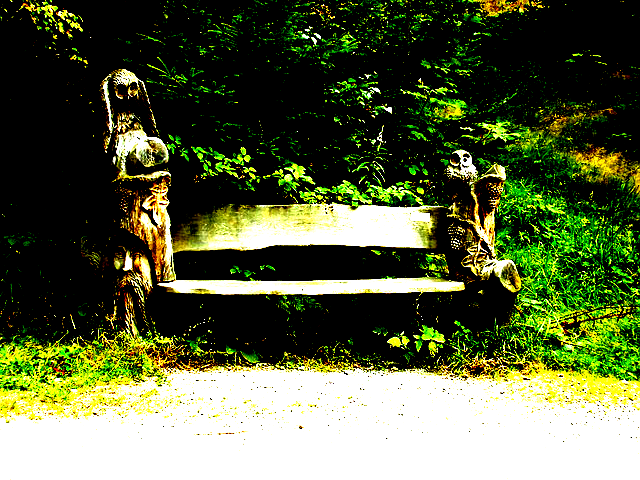
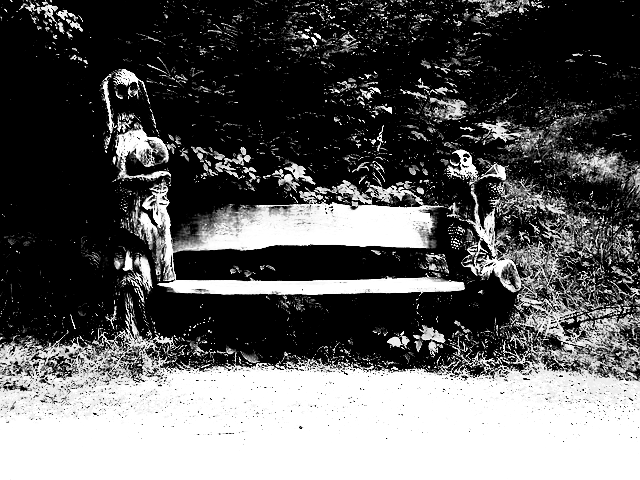
added grayscaling

diff --git a/src/main.c b/src/main.c
@@ -1,10 +1,17 @@
 #include <FreeImage.h>
 #include <stdio.h>
+#include <stdlib.h>
+
+void throwError(char message[]){
+    fprintf(stderr, "\033[1;31m");
+    fprintf(stderr,"%s\n", message);
+    fprintf(stderr, "\033[0m");
+    exit(0);
+}
 
 void doStuff(FIBITMAP *bm){
-    if (FreeImage_AdjustContrast(bm, 400)){
-        printf("yey!\n");
-    }
+    if (!FreeImage_AdjustContrast(bm, 400)) throwError("Adjust Contrast Failed");
+    *bm = *FreeImage_ConvertToGreyscale(bm);
 }
 
 int main(int argc, char *argv[]){
@@ -14,11 +21,9 @@ int main(int argc, char *argv[]){
     FIBITMAP *bitmap = FreeImage_Load(FIF_PNG, "sample.png", BMP_DEFAULT);
     if (bitmap) {
         doStuff(bitmap);
-        FreeImage_Save(FIF_PNG, bitmap, "sample-output.png", PNG_DEFAULT);
+        if (!FreeImage_Save(FIF_PNG, bitmap, "sample-output.png", PNG_DEFAULT)) throwError("Error Saving Image");
         FreeImage_Unload(bitmap);
-    }else {
-        printf("Error opening file\n");
-    }
+    }else throwError("Error Opening File");
 
     
 
